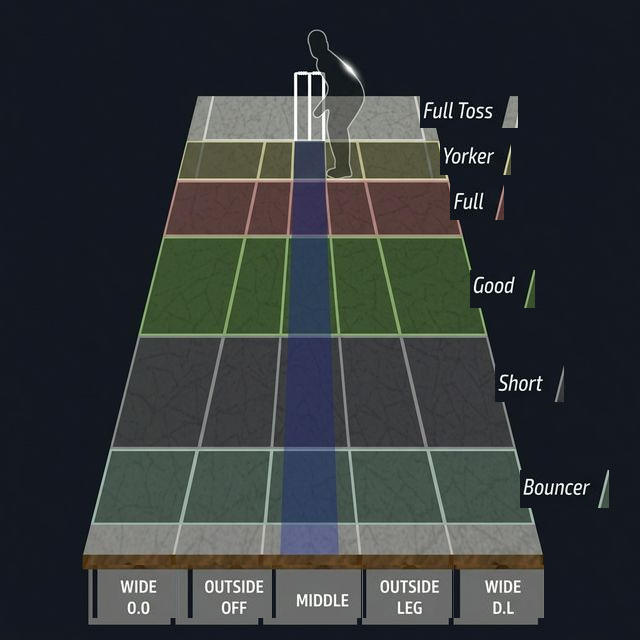
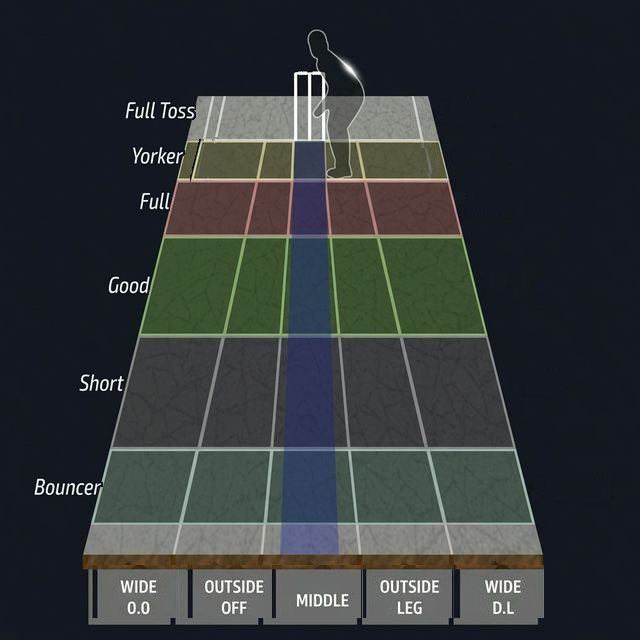
Refresh batting styles on focus; persist recent undo history

diff --git a/src/renderer.js b/src/renderer.js
@@ -1497,6 +1497,26 @@ function updateFieldOrientation() {
   if (pitch) pitch.src = mirrored ? "assets/pitch-map-flipped.png" : "assets/pitch-map.png";
 }
 
+// Batting styles can be edited in the masters (player editor) while this
+// screen is open, so re-pull them from the DB whenever the window regains
+// focus and re-orient the wagon wheel / pitch map if the striker's changed.
+async function refreshBattingStyles() {
+  const team = state.battingTeam;
+  if (!team?.playingXIPlayers?.length || !window.cricketApp?.db?.players) return;
+  try {
+    const teamId = team.id || team.playingXIPlayers[0].teamId;
+    const fresh = new Map((await window.cricketApp.db.players(teamId) || []).map((p) => [p.id, p]));
+    team.playingXIPlayers.forEach((p) => {
+      const f = fresh.get(p.id);
+      if (f) { p.battingStyle = f.battingStyle; p.battingStyleCode = f.battingStyleCode; }
+    });
+    updateFieldOrientation();
+  } catch (e) {
+    console.error("refresh batting styles failed", e);
+  }
+}
+window.addEventListener("focus", refreshBattingStyles);
+
 function render() {
   updateFieldOrientation(); // striker may have changed (swap / wicket / new over)
   setText("bat-team-code", state.battingCode);
@@ -3365,6 +3385,9 @@ function serializeState() {
     batTimes: state.batTimes, matchStartTime: state.matchStartTime,
     matchStartTs: state.matchStartTs, openersRecorded: state.openersRecorded,
     firstInningsBalls: state.firstInningsBalls,
+    // Recent undo stack — without this, a resumed match shows logged balls but
+    // undo refuses ("nothing to undo"). Capped to keep the debounced save light.
+    history: (state.history || []).slice(-10),
   };
 }
 function scheduleSave() {
